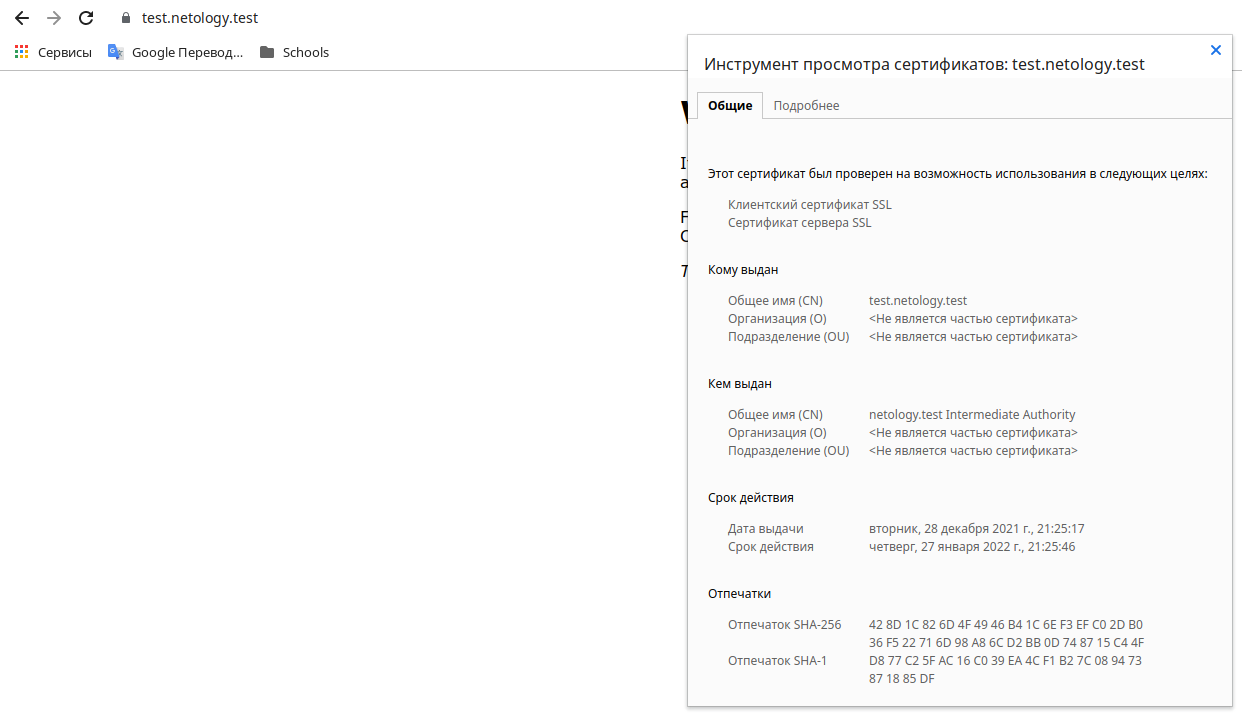
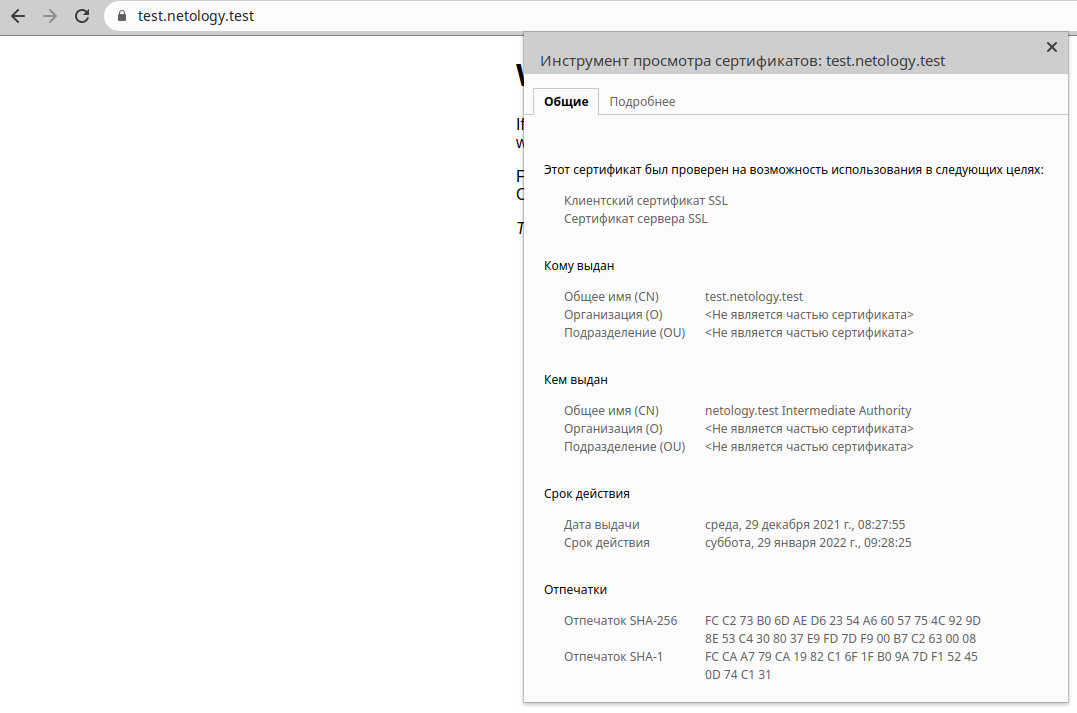
Cursovaya

diff --git a/DZ/cursov/readme.md b/DZ/cursov/readme.md
@@ -1,7 +1,7 @@
 # Курсовая работа по итогам модуля "DevOps и системное администрирование" - Дмитрий Щербаков
 ### 1. Создайте виртуальную машину Linux.
 ```commandline
-$ cat ~/vagrant_curs/Vagrantfile | grep -v '^[ ]*#' | grep -v '^$'
+$ cat ~/vagrant_curs/Vagrantfile | grep -vE '^( *#|$)'
 Vagrant.configure("2") do |config|
   config.vm.box = "bento/ubuntu-20.04"
 config.vm.network "public_network", type: "dhcp", :bridge => 'enp7s0'
@@ -75,9 +75,9 @@ root@vagrant:~/vault# vault write -format=json pki_int/intermediate/generate/int
 root@vagrant:~/vault# vault write -format=json pki/root/sign-intermediate csr=@pki_intermediate.csr format=pem_bundle ttl="43800h" | jq -r '.data.certificate' > intermediate.cert.pem
 root@vagrant:~/vault# vault write pki_int/intermediate/set-signed certificate=@intermediate.cert.pem
 Success! Data written to: pki_int/intermediate/set-signed
-root@vagrant:~/vault# vault write pki_int/roles/netology-dot-test allowed_domains="netology.test" allow_subdomains=true max_ttl="720h"
+root@vagrant:~/vault# vault write pki_int/roles/netology-dot-test allowed_domains="netology.test" allow_subdomains=true max_ttl="745h"
 Success! Data written to: pki_int/roles/netology-dot-test
-root@vagrant:~/vault# vault write pki_int/issue/netology-dot-test common_name="test.netology.test" ttl="720h"
+root@vagrant:~/vault# vault write pki_int/issue/netology-dot-test common_name="test.netology.test" ttl="745h"
 Key                 Value
 ---                 -----
 ca_chain            [-----BEGIN CERTIFICATE-----
@@ -123,7 +123,7 @@ ii  nginx-core                           1.18.0-0ubuntu1.2                 amd64
 ### - можно использовать стандартную стартовую страницу nginx для демонстрации работы сервера;
 ### - можно использовать и другой html файл, сделанный вами;
 ```commandline
-root@vagrant:~/vault# cat /etc/nginx/sites-enabled/default | grep -v '#'| grep -v '^$'
+root@vagrant:~# cat /etc/nginx/sites-enabled/default | grep -vE '(#|^$)'
 server {
 	listen 443 ssl default_server;
 	ssl_certificate		/etc/nginx/certs/test.netology.test.pem;
@@ -152,7 +152,7 @@ cd /root/scripts/tmp/
 vault write -format=json pki_int/issue/netology-dot-test \
     common_name="test.netology.test" \
     alt_names="test.netology.test" \
-    ttl="720h" > test.netology.test.crt
+    ttl="745h" > test.netology.test.crt
 
 cat test.netology.test.crt | jq -r .data.certificate > test.netology.test.crt.pem
 cat test.netology.test.crt | jq -r .data.issuing_ca >> test.netology.test.crt.pem
@@ -166,15 +166,20 @@ systemctl restart nginx
 
 ### 10. Поместите скрипт в crontab, чтобы сертификат обновлялся какого-то числа каждого месяца в удобное для вас время.
 ```commandline
-root@vagrant:/etc# cat /etc/crontab | grep cert_update
-55 21	28 * *	root	/root/scripts/cert_update.sh
-root@vagrant:/etc# date
-Tue Dec 28 21:55:15 MSK 2021
-root@vagrant:/etc# tail -100 /var/log/syslog | grep cert_update
-Dec 28 21:55:01 vagrant CRON[2136]: (root) CMD (/root/scripts/cert_update.sh)
-root@vagrant:/etc# ls -l /etc/nginx/certs/
+root@vagrant:~# cat /etc/crontab | grep cert_update
+40 8	29 * *	root	/root/scripts/cert_update.sh
+root@vagrant:~# date
+Wed Dec 29 08:40:44 MSK 2021
+root@vagrant:~# tail -100 /var/log/syslog | grep -A 5 cert_update
+Dec 29 08:40:01 vagrant CRON[3005]: (root) CMD (/root/scripts/cert_update.sh)
+Dec 29 08:40:01 vagrant systemd[1]: Stopping A high performance web server and a reverse proxy server...
+Dec 29 08:40:01 vagrant systemd[1]: nginx.service: Succeeded.
+Dec 29 08:40:01 vagrant systemd[1]: Stopped A high performance web server and a reverse proxy server.
+Dec 29 08:40:01 vagrant systemd[1]: Starting A high performance web server and a reverse proxy server...
+Dec 29 08:40:01 vagrant systemd[1]: Started A high performance web server and a reverse proxy server.
+root@vagrant:~# ls -l /etc/nginx/certs/
 total 40
--rw-r--r-- 1 root root 1675 Dec 28 21:55 test.netology.test.key
--rw-r--r-- 1 root root 2579 Dec 28 21:55 test.netology.test.pem
+-rw-r--r-- 1 root root 1675 Dec 29 08:40 test.netology.test.key
+-rw-r--r-- 1 root root 2579 Dec 29 08:40 test.netology.test.pem
 ```
 ![](./site_after_update.png)
